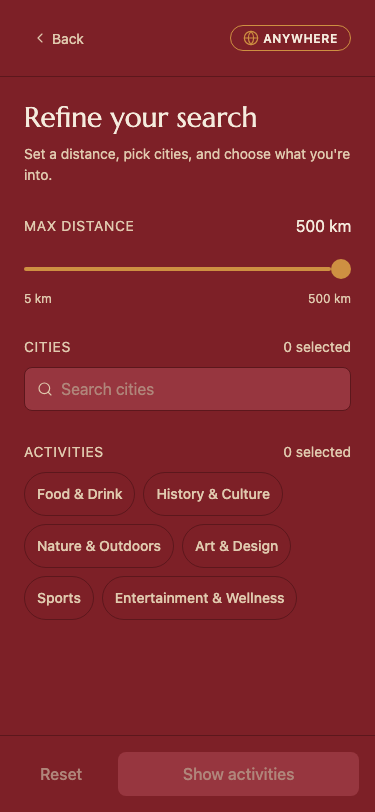
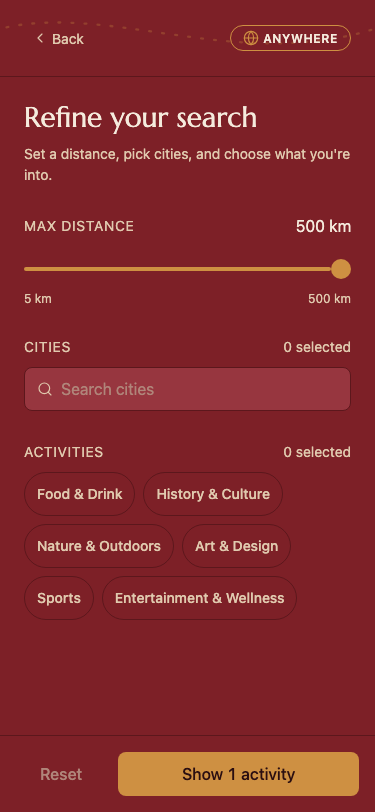
fix(app): add missing decorative flight-path background to Search Setup header (T2)
The mock's dashed gold flight-path curve behind the Search Setup header
(nav row + title block) was scoped out of the original T2 PR. Adds it as
a shared HeaderFlightPath SVG component (behind NearbySearchSetupScreen
and AnywhereSearchScreen), matching design-spec.md's addendum viewBox/
path/opacity values exactly. Fixed a react-native-svg-web sizing bug
along the way: absolute top/right/bottom/left:0 doesn't pin the <svg>
box height on web (it sizes from the viewBox aspect ratio instead), so
a short/wide header cropped the curve out entirely — switched to
explicit width/height: 100%.

Changed region(s): [[0.2933, 0.9236, 0.968, 0.9852]]

diff --git a/app/src/components/HeaderFlightPath.tsx b/app/src/components/HeaderFlightPath.tsx
@@ -1,0 +1,49 @@
+import { StyleSheet } from 'react-native';
+import Svg, { Circle, Path } from 'react-native-svg';
+import { colors } from '../theme/tokens';
+
+// Decorative header-sized "flight path" motif (design-spec.md's T2 addendum)
+// — one dashed gold curve + two endpoint dots behind a fixed header block.
+// Smaller sibling of scope-picker/FlightPathBackground's full-screen
+// seven-curve pattern; not reused directly since the viewBox/curve don't fit
+// a ~140px header. Shared by NearbySearchSetupScreen and AnywhereSearchScreen.
+export function HeaderFlightPath() {
+  return (
+    <Svg
+      viewBox="0 0 402 200"
+      preserveAspectRatio="xMidYMid slice"
+      style={styles.svg}
+      pointerEvents="none"
+      accessibilityElementsHidden
+      importantForAccessibility="no-hide-descendants"
+    >
+      <Path
+        d="M-20 96 C 110 50, 260 150, 430 80"
+        stroke={colors.primary}
+        strokeWidth={2.5}
+        strokeDasharray="2 12"
+        strokeLinecap="round"
+        strokeOpacity={0.28}
+        fill="none"
+      />
+      <Circle cx={-20} cy={96} r={4.5} fill={colors.primary} stroke="none" opacity={0.28} />
+      <Circle cx={430} cy={80} r={5} fill="none" stroke={colors.primary} strokeWidth={3} strokeOpacity={0.28} />
+    </Svg>
+  );
+}
+
+const styles = StyleSheet.create({
+  svg: {
+    position: 'absolute',
+    top: 0,
+    left: 0,
+    // ponytail: explicit width/height 100% (not top/right/bottom/left: 0) —
+    // on web, react-native-svg sizes the <svg> box from its viewBox aspect
+    // ratio when height isn't a concrete number, so a short/wide header
+    // container (unlike FlightPathBackground's near-square full-screen use)
+    // rendered a box taller than the header and only its top sliver showed
+    // through the header's overflow:hidden, cropping the curve out entirely.
+    width: '100%',
+    height: '100%',
+  },
+});

diff --git a/app/src/features/search-setup/NearbySearchSetupScreen.tsx b/app/src/features/search-setup/NearbySearchSetupScreen.tsx
@@ -5,6 +5,7 @@ import { ChevronLeft, MapPin, X } from 'lucide-react-native';
 import type { ActivitiesQueryRequest } from '../../api/activities';
 import { queryActivities } from '../../api/activities';
 import { FilterChip } from '../../components/FilterChip';
+import { HeaderFlightPath } from '../../components/HeaderFlightPath';
 import { Spinner } from '../../components/Spinner';
 import { useFocusable } from '../../hooks/useFocusable';
 import { colors, fontFamily, fontSize, radius, space } from '../../theme/tokens';
@@ -115,6 +116,7 @@ export function NearbySearchSetupScreen({ selection, onConfirm, onBack }: Nearby
   return (
     <SafeAreaView style={styles.screen}>
       <View style={styles.header}>
+        <HeaderFlightPath />
         <Pressable
           onPress={onBack}
           onFocus={backFocus.onFocus}
@@ -239,6 +241,8 @@ const styles = StyleSheet.create({
     paddingHorizontal: space[6],
     borderBottomWidth: 1,
     borderBottomColor: colors.border,
+    position: 'relative',
+    overflow: 'hidden',
   },
   backButton: {
     flexDirection: 'row',

diff --git a/app/src/features/search-setup/AnywhereSearchScreen.tsx b/app/src/features/search-setup/AnywhereSearchScreen.tsx
@@ -8,6 +8,7 @@ import { queryActivities } from '../../api/activities';
 import type { CitySuggestion } from '../../api/cities';
 import { suggestCities } from '../../api/cities';
 import { FilterChip } from '../../components/FilterChip';
+import { HeaderFlightPath } from '../../components/HeaderFlightPath';
 import { Skeleton } from '../../components/Skeleton';
 import { Spinner } from '../../components/Spinner';
 import { useFocusable } from '../../hooks/useFocusable';
@@ -150,6 +151,7 @@ export function AnywhereSearchScreen({ selection, onBack, onSearchComplete }: An
   return (
     <SafeAreaView style={styles.screen} edges={['top', 'left', 'right']}>
       <View style={styles.header}>
+        <HeaderFlightPath />
         <Pressable
           onPress={onBack}
           onFocus={backFocus.onFocus}
@@ -340,6 +342,8 @@ const styles = StyleSheet.create({
     paddingHorizontal: space[6],
     borderBottomWidth: 1,
     borderBottomColor: colors.border,
+    position: 'relative',
+    overflow: 'hidden',
   },
   backButton: {
     flexDirection: 'row',

diff --git a/app/src/components/HeaderFlightPath.test.tsx b/app/src/components/HeaderFlightPath.test.tsx
@@ -1,0 +1,11 @@
+import { render } from '@testing-library/react-native';
+import Svg from 'react-native-svg';
+import { HeaderFlightPath } from './HeaderFlightPath';
+
+describe('HeaderFlightPath', () => {
+  it('renders without crashing and stays hidden from accessibility tools', () => {
+    const { toJSON, UNSAFE_root } = render(<HeaderFlightPath />);
+    expect(toJSON()).toBeTruthy();
+    expect(UNSAFE_root.findByType(Svg).props.accessibilityElementsHidden).toBe(true);
+  });
+});
